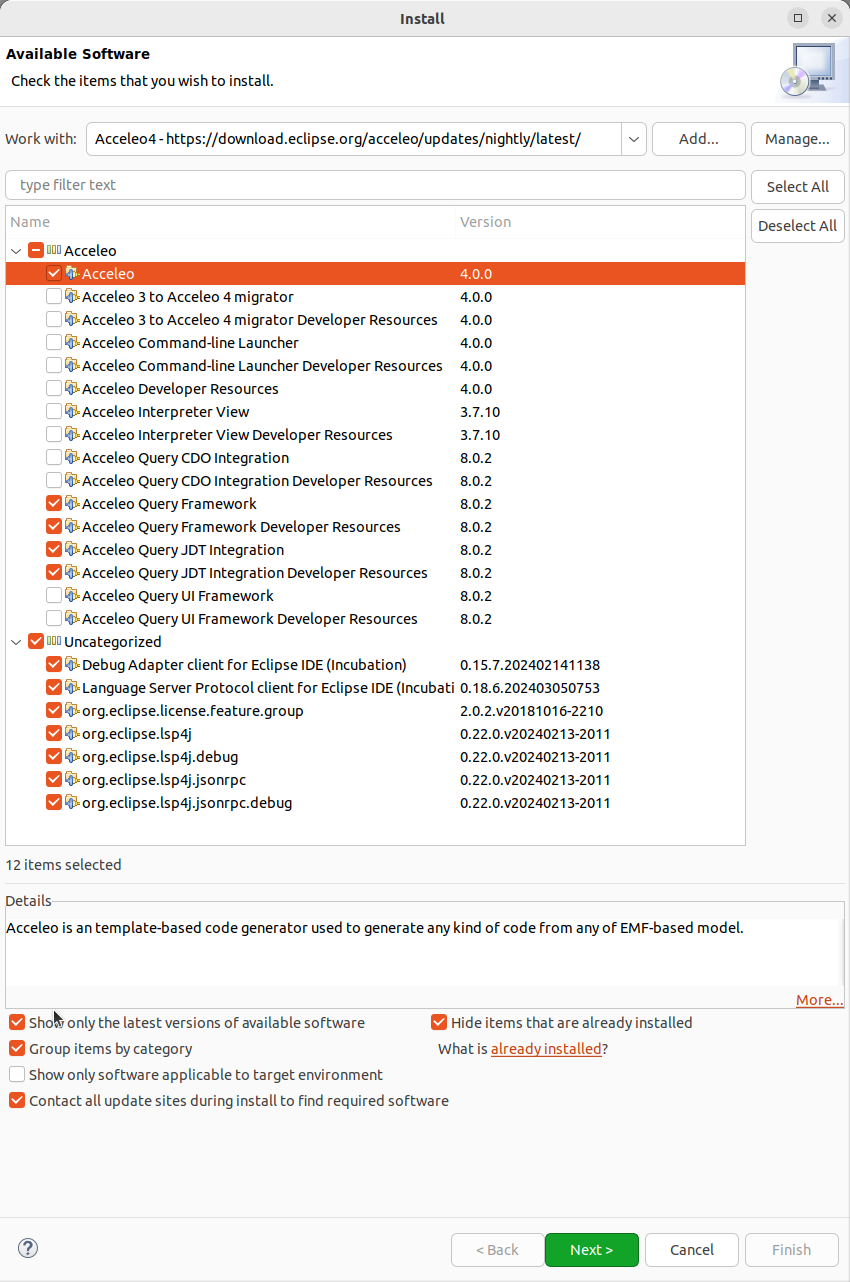
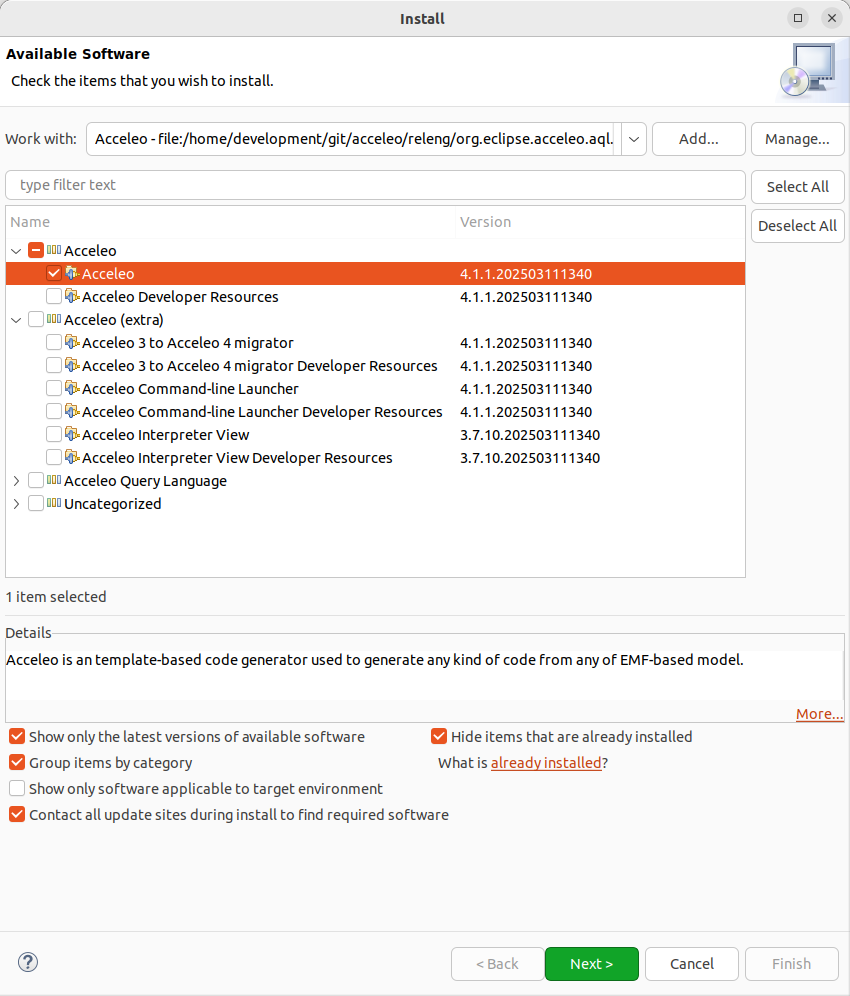
Fixed #201 Simplify and Rationalize Acceleo Installation.

diff --git a/plugins/org.eclipse.acceleo.aql.doc/doc/index.html b/plugins/org.eclipse.acceleo.aql.doc/doc/index.html
@@ -630,7 +630,7 @@ It can be used to generate any kind of text file: code, configuration, documenta
 <p><span class="image"><img src="images/InstallDependencies.png" alt="Install Acceleo"></span></p>
 </div>
 <div class="paragraph">
-<p>For a minimal installation you can select the following features and plugins:</p>
+<p>For a minimal installation you can select the <code>Acceleo</code> feature:</p>
 </div>
 <div class="paragraph">
 <p><span class="image"><img src="images/InstallFeaturesAndPlugins.png" alt="Minimal features and plugins to install"></span></p>
@@ -2638,7 +2638,7 @@ AcceleoUtil.generate(evaluator, queryEnvironment, mainModule, resource, strategy
 <h4 id="_the_migration_from_your_acceleo_3_environment">7.1.1. The migration from your Acceleo 3 environment</h4>
 <div class="paragraph">
 <p>First make a copy of your Acceleo 3 environment or create a new Acceleo 3 environment for the migration.
-Then you need to <a href="#">install</a> the <code>Acceleo 3 to Acceleo 4 migrator</code> feature.
+Then you need to <a href="#">install</a> the <code>Acceleo 3 to Acceleo 4 migrator</code> feature in the <code>Acceleo (extra)</code> category.
 Before launching the migration you need to make sure your Acceleo 3 projects are built properly. One way to do this can be to check the output folder of your plugin (usually the bin folder) to check the presence of *.emtl files.
 Then you can use the following menu on your Acceleo 3 projects:</p>
 </div>

diff --git a/plugins/org.eclipse.acceleo.aql.doc/doc/migration.html b/plugins/org.eclipse.acceleo.aql.doc/doc/migration.html
@@ -461,7 +461,7 @@ body.book #toc,body.book #preamble,body.book h1.sect0,body.book .sect1>h2{page-b
 <h4 id="_the_migration_from_your_acceleo_3_environment">The migration from your Acceleo 3 environment</h4>
 <div class="paragraph">
 <p>First make a copy of your Acceleo 3 environment or create a new Acceleo 3 environment for the migration.
-Then you need to <a href="install.html">install</a> the <code>Acceleo 3 to Acceleo 4 migrator</code> feature.
+Then you need to <a href="install.html">install</a> the <code>Acceleo 3 to Acceleo 4 migrator</code> feature in the <code>Acceleo (extra)</code> category.
 Before launching the migration you need to make sure your Acceleo 3 projects are built properly. One way to do this can be to check the output folder of your plugin (usually the bin folder) to check the presence of *.emtl files.
 Then you can use the following menu on your Acceleo 3 projects:</p>
 </div>
@@ -1047,7 +1047,7 @@ Thus the migration tool translates each Set into an OrderedSet and each Bag into
 </div>
 <div id="footer">
 <div id="footer-text">
-Last updated 2024-12-05 16:10:34 +0100
+Last updated 2025-03-11 15:40:25 +0100
 </div>
 </div>
 </body>

diff --git a/plugins/org.eclipse.acceleo.aql.doc/doc/install.html b/plugins/org.eclipse.acceleo.aql.doc/doc/install.html
@@ -450,7 +450,7 @@ body.book #toc,body.book #preamble,body.book h1.sect0,body.book .sect1>h2{page-b
 <p><span class="image"><img src="images/InstallDependencies.png" alt="Install Acceleo"></span></p>
 </div>
 <div class="paragraph">
-<p>For a minimal installation you can select the following features and plugins:</p>
+<p>For a minimal installation you can select the <code>Acceleo</code> feature:</p>
 </div>
 <div class="paragraph">
 <p><span class="image"><img src="images/InstallFeaturesAndPlugins.png" alt="Minimal features and plugins to install"></span></p>
@@ -461,7 +461,7 @@ body.book #toc,body.book #preamble,body.book h1.sect0,body.book .sect1>h2{page-b
 </div>
 <div id="footer">
 <div id="footer-text">
-Last updated 2025-02-13 11:40:39 +0100
+Last updated 2025-03-12 10:15:49 +0100
 </div>
 </div>
 </body>
